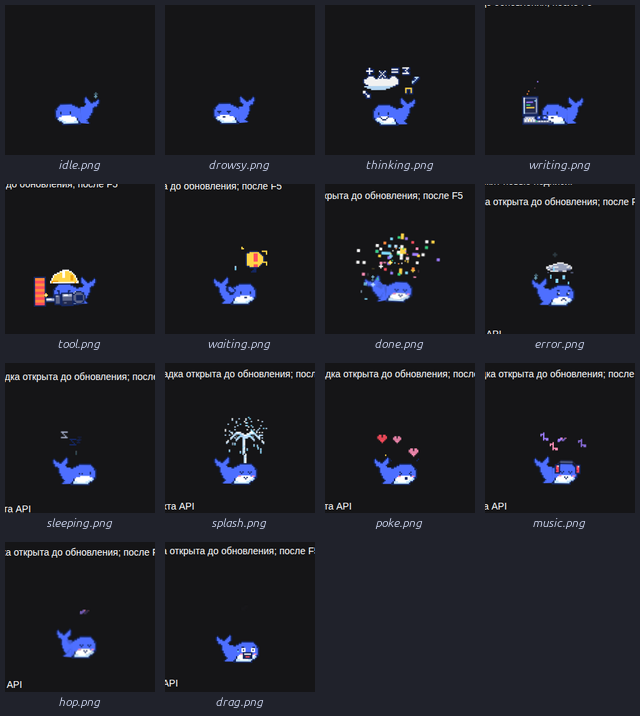
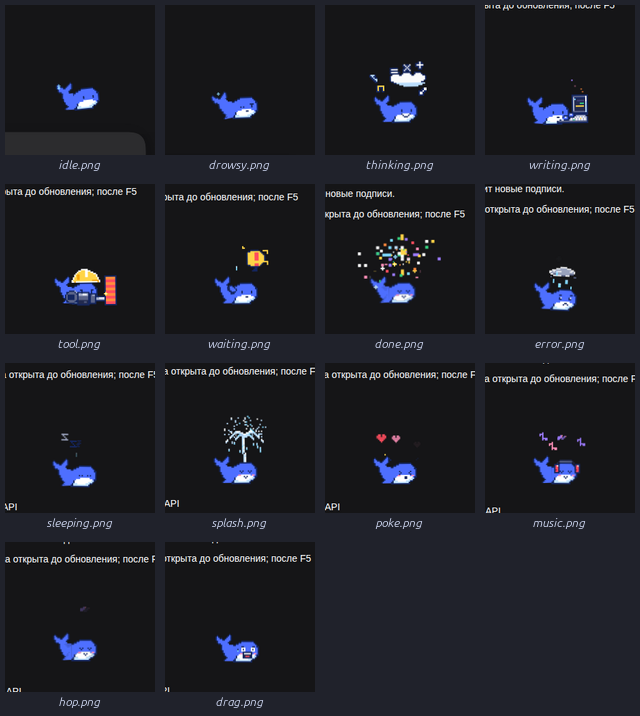
drowsy: alternating eye 5s/5s; sleeping keeps both eyes closed

diff --git a/client.js b/client.js
@@ -309,8 +309,8 @@ const ART = {
 /* no mouth while asleep, and one eye occasionally peeks open */
 .dsh-whale.is-sleeping #dw-mouth-smile { display: none; }
 /* one eye open, the other closed for 5s, then open for 5s */
-.dsh-whale.is-sleeping #dw-sleep-eye-closed { animation: dw-eye-cycle-closed 10s steps(1, end) infinite; }
-.dsh-whale.is-sleeping #dw-sleep-eye-open { animation: dw-eye-cycle-open 10s steps(1, end) infinite; }
+.dsh-whale.is-drowsy #dw-drowsy-eye-closed { animation: dw-eye-cycle-closed 10s steps(1, end) infinite; }
+.dsh-whale.is-drowsy #dw-drowsy-eye-open { animation: dw-eye-cycle-open 10s steps(1, end) infinite; }
 @keyframes dw-eye-cycle-closed {
   0%, 49% { opacity: 1; }
   50%, 100% { opacity: 0; }
@@ -591,7 +591,7 @@ const ART = {
   .dsh-whale .dsh-whale-art #dw-glow { opacity: 0 !important; }
   .dsh-whale .dsh-whale-art #dw-face-up-blink, .dsh-whale .dsh-whale-art #dw-mouth-think-open { opacity: 0 !important; }
   .dsh-whale .dsh-whale-art #dw-mouth-think-line { opacity: 0 !important; }
-  .dsh-whale .dsh-whale-art #dw-sleep-eye-closed { opacity: 0 !important; }
+  .dsh-whale .dsh-whale-art #dw-drowsy-eye-closed { opacity: 0 !important; }
 }`,
   svg: ` <svg class="dsh-whale-svg" xmlns="http://www.w3.org/2000/svg" viewBox="0 0 96 96" width="96" height="96" shape-rendering="auto" aria-hidden="true" focusable="false">
   <g id="dw-bob">
@@ -603,10 +603,10 @@ const ART = {
     <g id="dw-face-up" class="dw-alt dw-on-thinking"><rect x="24" y="66" width="2" height="4" fill="#142660"/><rect x="38" y="66" width="2" height="4" fill="#142660"/></g><g id="dw-face-up-blink" class="dw-alt dw-on-thinking"><rect x="22" y="68" width="4" height="2" fill="#142660"/><rect x="38" y="68" width="4" height="2" fill="#142660"/></g>
     <g id="dw-face-happy" class="dw-alt dw-on-done dw-on-music dw-on-splash dw-on-hop"><rect x="24" y="68" width="2" height="2" fill="#142660"/><rect x="26" y="70" width="2" height="2" fill="#142660"/><rect x="28" y="68" width="2" height="2" fill="#142660"/><rect x="36" y="68" width="2" height="2" fill="#142660"/><rect x="38" y="70" width="2" height="2" fill="#142660"/><rect x="40" y="68" width="2" height="2" fill="#142660"/></g>
     <g id="dw-face-sad" class="dw-alt dw-on-error"><rect x="24" y="68" width="4" height="4" fill="#142660"/><rect x="24" y="68" width="2" height="2" fill="#FFFFFF"/><rect x="38" y="68" width="4" height="4" fill="#142660"/><rect x="38" y="68" width="2" height="2" fill="#FFFFFF"/><rect x="22" y="64" width="4" height="2" fill="#142660"/><rect x="38" y="64" width="4" height="2" fill="#142660"/></g>
-    <g id="dw-face-sleep" class="dw-alt dw-on-sleeping"><rect x="24" y="68" width="2" height="4" fill="#142660"/></g><g id="dw-sleep-eye-closed" class="dw-alt dw-on-sleeping"><rect x="36" y="70" width="2" height="2" fill="#142660"/><rect x="40" y="70" width="2" height="2" fill="#142660"/></g><g id="dw-sleep-eye-open" class="dw-alt dw-on-sleeping"><rect x="38" y="68" width="2" height="4" fill="#142660"/></g>
+    <g id="dw-drowsy-eye-closed" class="dw-alt dw-on-drowsy"><rect x="36" y="70" width="2" height="2" fill="#142660"/><rect x="40" y="70" width="2" height="2" fill="#142660"/></g><g id="dw-drowsy-eye-open" class="dw-alt dw-on-drowsy"><rect x="38" y="68" width="2" height="4" fill="#142660"/></g><g id="dw-face-sleep" class="dw-alt dw-on-sleeping"><rect x="24" y="70" width="2" height="2" fill="#142660"/><rect x="28" y="70" width="2" height="2" fill="#142660"/><rect x="36" y="70" width="2" height="2" fill="#142660"/><rect x="40" y="70" width="2" height="2" fill="#142660"/></g>
     <g id="dw-face-odd" class="dw-alt dw-on-poke"><rect x="24" y="68" width="2" height="2" fill="#142660"/><rect x="26" y="70" width="2" height="2" fill="#142660"/><rect x="24" y="72" width="2" height="2" fill="#142660"/><rect x="40" y="68" width="2" height="2" fill="#142660"/><rect x="38" y="70" width="2" height="2" fill="#142660"/><rect x="40" y="72" width="2" height="2" fill="#142660"/></g>
     <g id="dw-face-focus" class="dw-alt dw-on-tool"><rect x="24" y="68" width="2" height="4" fill="#142660"/><rect x="38" y="68" width="2" height="4" fill="#142660"/><rect x="22" y="66" width="4" height="2" fill="#142660"/><rect x="38" y="66" width="4" height="2" fill="#142660"/></g>
-    <g id="dw-face-drowsy" class="dw-alt dw-on-drowsy"><rect x="22" y="68" width="6" height="2" fill="#142660"/><rect x="36" y="68" width="6" height="2" fill="#142660"/><rect x="24" y="70" width="2" height="2" fill="#142660"/><rect x="38" y="70" width="2" height="2" fill="#142660"/></g>
+    <g id="dw-face-drowsy" class="dw-alt dw-on-drowsy"><rect x="24" y="68" width="2" height="4" fill="#142660"/><rect x="22" y="66" width="6" height="2" fill="#142660"/></g>
     <g id="dw-face-drag" class="dw-alt dw-on-drag"><rect x="22" y="64" width="4" height="2" fill="#142660"/><rect x="38" y="64" width="4" height="2" fill="#142660"/><rect x="22" y="66" width="6" height="6" fill="#FFFFFF"/><rect x="24" y="68" width="2" height="2" fill="#142660"/><rect x="36" y="66" width="6" height="6" fill="#FFFFFF"/><rect x="38" y="68" width="2" height="2" fill="#142660"/><rect x="46" y="68" width="2" height="4" fill="#7FDBFF"/><rect x="46" y="68" width="2" height="2" fill="#142660"/></g>
     <g id="dw-blush" class="dw-alt dw-on-done dw-on-music dw-on-splash dw-on-poke dw-on-hop dw-on-drag"><rect x="20" y="74" width="4" height="2" fill="#FF8FB8"/><rect x="40" y="74" width="4" height="2" fill="#FF8FB8"/></g>
     <g id="dw-mouth-smile"><rect x="30" y="76" width="4" height="2" fill="#142660"/></g><g id="dw-mouth-drag-closed" class="dw-alt dw-on-drag"><rect x="28" y="76" width="10" height="2" fill="#142660"/></g><g id="dw-mouth-drag-open" class="dw-alt dw-on-drag"><rect x="26" y="72" width="14" height="10" fill="#142660"/><rect x="28" y="74" width="10" height="6" fill="#222A4E"/><rect x="28" y="74" width="10" height="2" fill="#FFFFFF"/><rect x="30" y="78" width="6" height="2" fill="#FF4D5E"/></g><g id="dw-mouth-think-closed" class="dw-alt dw-on-thinking"><rect x="26" y="74" width="2" height="2" fill="#142660"/><rect x="28" y="76" width="2" height="2" fill="#142660"/><rect x="30" y="78" width="2" height="2" fill="#142660"/><rect x="32" y="78" width="2" height="2" fill="#142660"/><rect x="34" y="78" width="2" height="2" fill="#142660"/><rect x="36" y="76" width="2" height="2" fill="#142660"/><rect x="38" y="74" width="2" height="2" fill="#142660"/></g><g id="dw-mouth-think-line" class="dw-alt dw-on-thinking"><rect x="30" y="76" width="6" height="2" fill="#142660"/></g><g id="dw-mouth-think-open" class="dw-alt dw-on-thinking"><rect x="30" y="74" width="6" height="4" fill="#142660"/><rect x="32" y="76" width="2" height="2" fill="#FF8FB8"/></g>

diff --git a/src/art.js b/src/art.js
@@ -299,8 +299,8 @@ const ART = {
 /* no mouth while asleep, and one eye occasionally peeks open */
 .dsh-whale.is-sleeping #dw-mouth-smile { display: none; }
 /* one eye open, the other closed for 5s, then open for 5s */
-.dsh-whale.is-sleeping #dw-sleep-eye-closed { animation: dw-eye-cycle-closed 10s steps(1, end) infinite; }
-.dsh-whale.is-sleeping #dw-sleep-eye-open { animation: dw-eye-cycle-open 10s steps(1, end) infinite; }
+.dsh-whale.is-drowsy #dw-drowsy-eye-closed { animation: dw-eye-cycle-closed 10s steps(1, end) infinite; }
+.dsh-whale.is-drowsy #dw-drowsy-eye-open { animation: dw-eye-cycle-open 10s steps(1, end) infinite; }
 @keyframes dw-eye-cycle-closed {
   0%, 49% { opacity: 1; }
   50%, 100% { opacity: 0; }
@@ -581,7 +581,7 @@ const ART = {
   .dsh-whale .dsh-whale-art #dw-glow { opacity: 0 !important; }
   .dsh-whale .dsh-whale-art #dw-face-up-blink, .dsh-whale .dsh-whale-art #dw-mouth-think-open { opacity: 0 !important; }
   .dsh-whale .dsh-whale-art #dw-mouth-think-line { opacity: 0 !important; }
-  .dsh-whale .dsh-whale-art #dw-sleep-eye-closed { opacity: 0 !important; }
+  .dsh-whale .dsh-whale-art #dw-drowsy-eye-closed { opacity: 0 !important; }
 }`,
   svg: ` <svg class="dsh-whale-svg" xmlns="http://www.w3.org/2000/svg" viewBox="0 0 96 96" width="96" height="96" shape-rendering="auto" aria-hidden="true" focusable="false">
   <g id="dw-bob">
@@ -593,10 +593,10 @@ const ART = {
     <g id="dw-face-up" class="dw-alt dw-on-thinking"><rect x="24" y="66" width="2" height="4" fill="#142660"/><rect x="38" y="66" width="2" height="4" fill="#142660"/></g><g id="dw-face-up-blink" class="dw-alt dw-on-thinking"><rect x="22" y="68" width="4" height="2" fill="#142660"/><rect x="38" y="68" width="4" height="2" fill="#142660"/></g>
     <g id="dw-face-happy" class="dw-alt dw-on-done dw-on-music dw-on-splash dw-on-hop"><rect x="24" y="68" width="2" height="2" fill="#142660"/><rect x="26" y="70" width="2" height="2" fill="#142660"/><rect x="28" y="68" width="2" height="2" fill="#142660"/><rect x="36" y="68" width="2" height="2" fill="#142660"/><rect x="38" y="70" width="2" height="2" fill="#142660"/><rect x="40" y="68" width="2" height="2" fill="#142660"/></g>
     <g id="dw-face-sad" class="dw-alt dw-on-error"><rect x="24" y="68" width="4" height="4" fill="#142660"/><rect x="24" y="68" width="2" height="2" fill="#FFFFFF"/><rect x="38" y="68" width="4" height="4" fill="#142660"/><rect x="38" y="68" width="2" height="2" fill="#FFFFFF"/><rect x="22" y="64" width="4" height="2" fill="#142660"/><rect x="38" y="64" width="4" height="2" fill="#142660"/></g>
-    <g id="dw-face-sleep" class="dw-alt dw-on-sleeping"><rect x="24" y="68" width="2" height="4" fill="#142660"/></g><g id="dw-sleep-eye-closed" class="dw-alt dw-on-sleeping"><rect x="36" y="70" width="2" height="2" fill="#142660"/><rect x="40" y="70" width="2" height="2" fill="#142660"/></g><g id="dw-sleep-eye-open" class="dw-alt dw-on-sleeping"><rect x="38" y="68" width="2" height="4" fill="#142660"/></g>
+    <g id="dw-drowsy-eye-closed" class="dw-alt dw-on-drowsy"><rect x="36" y="70" width="2" height="2" fill="#142660"/><rect x="40" y="70" width="2" height="2" fill="#142660"/></g><g id="dw-drowsy-eye-open" class="dw-alt dw-on-drowsy"><rect x="38" y="68" width="2" height="4" fill="#142660"/></g><g id="dw-face-sleep" class="dw-alt dw-on-sleeping"><rect x="24" y="70" width="2" height="2" fill="#142660"/><rect x="28" y="70" width="2" height="2" fill="#142660"/><rect x="36" y="70" width="2" height="2" fill="#142660"/><rect x="40" y="70" width="2" height="2" fill="#142660"/></g>
     <g id="dw-face-odd" class="dw-alt dw-on-poke"><rect x="24" y="68" width="2" height="2" fill="#142660"/><rect x="26" y="70" width="2" height="2" fill="#142660"/><rect x="24" y="72" width="2" height="2" fill="#142660"/><rect x="40" y="68" width="2" height="2" fill="#142660"/><rect x="38" y="70" width="2" height="2" fill="#142660"/><rect x="40" y="72" width="2" height="2" fill="#142660"/></g>
     <g id="dw-face-focus" class="dw-alt dw-on-tool"><rect x="24" y="68" width="2" height="4" fill="#142660"/><rect x="38" y="68" width="2" height="4" fill="#142660"/><rect x="22" y="66" width="4" height="2" fill="#142660"/><rect x="38" y="66" width="4" height="2" fill="#142660"/></g>
-    <g id="dw-face-drowsy" class="dw-alt dw-on-drowsy"><rect x="22" y="68" width="6" height="2" fill="#142660"/><rect x="36" y="68" width="6" height="2" fill="#142660"/><rect x="24" y="70" width="2" height="2" fill="#142660"/><rect x="38" y="70" width="2" height="2" fill="#142660"/></g>
+    <g id="dw-face-drowsy" class="dw-alt dw-on-drowsy"><rect x="24" y="68" width="2" height="4" fill="#142660"/><rect x="22" y="66" width="6" height="2" fill="#142660"/></g>
     <g id="dw-face-drag" class="dw-alt dw-on-drag"><rect x="22" y="64" width="4" height="2" fill="#142660"/><rect x="38" y="64" width="4" height="2" fill="#142660"/><rect x="22" y="66" width="6" height="6" fill="#FFFFFF"/><rect x="24" y="68" width="2" height="2" fill="#142660"/><rect x="36" y="66" width="6" height="6" fill="#FFFFFF"/><rect x="38" y="68" width="2" height="2" fill="#142660"/><rect x="46" y="68" width="2" height="4" fill="#7FDBFF"/><rect x="46" y="68" width="2" height="2" fill="#142660"/></g>
     <g id="dw-blush" class="dw-alt dw-on-done dw-on-music dw-on-splash dw-on-poke dw-on-hop dw-on-drag"><rect x="20" y="74" width="4" height="2" fill="#FF8FB8"/><rect x="40" y="74" width="4" height="2" fill="#FF8FB8"/></g>
     <g id="dw-mouth-smile"><rect x="30" y="76" width="4" height="2" fill="#142660"/></g><g id="dw-mouth-drag-closed" class="dw-alt dw-on-drag"><rect x="28" y="76" width="10" height="2" fill="#142660"/></g><g id="dw-mouth-drag-open" class="dw-alt dw-on-drag"><rect x="26" y="72" width="14" height="10" fill="#142660"/><rect x="28" y="74" width="10" height="6" fill="#222A4E"/><rect x="28" y="74" width="10" height="2" fill="#FFFFFF"/><rect x="30" y="78" width="6" height="2" fill="#FF4D5E"/></g><g id="dw-mouth-think-closed" class="dw-alt dw-on-thinking"><rect x="26" y="74" width="2" height="2" fill="#142660"/><rect x="28" y="76" width="2" height="2" fill="#142660"/><rect x="30" y="78" width="2" height="2" fill="#142660"/><rect x="32" y="78" width="2" height="2" fill="#142660"/><rect x="34" y="78" width="2" height="2" fill="#142660"/><rect x="36" y="76" width="2" height="2" fill="#142660"/><rect x="38" y="74" width="2" height="2" fill="#142660"/></g><g id="dw-mouth-think-line" class="dw-alt dw-on-thinking"><rect x="30" y="76" width="6" height="2" fill="#142660"/></g><g id="dw-mouth-think-open" class="dw-alt dw-on-thinking"><rect x="30" y="74" width="6" height="4" fill="#142660"/><rect x="32" y="76" width="2" height="2" fill="#FF8FB8"/></g>
